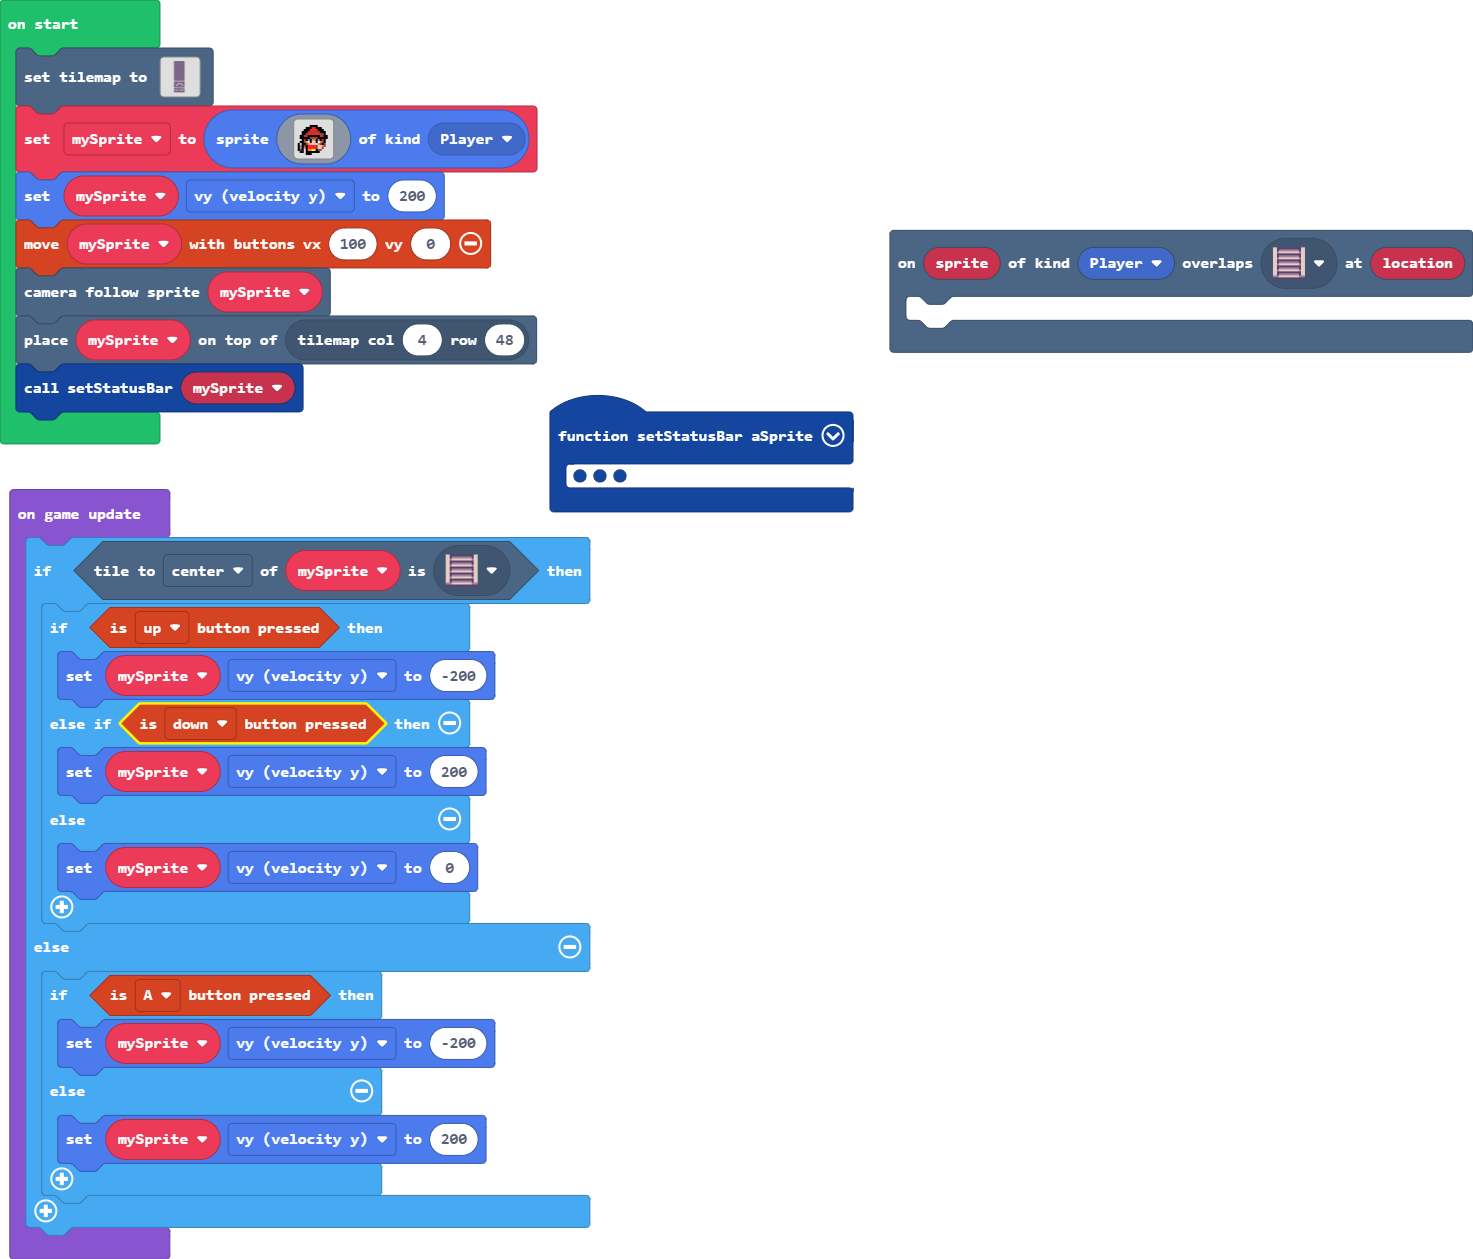
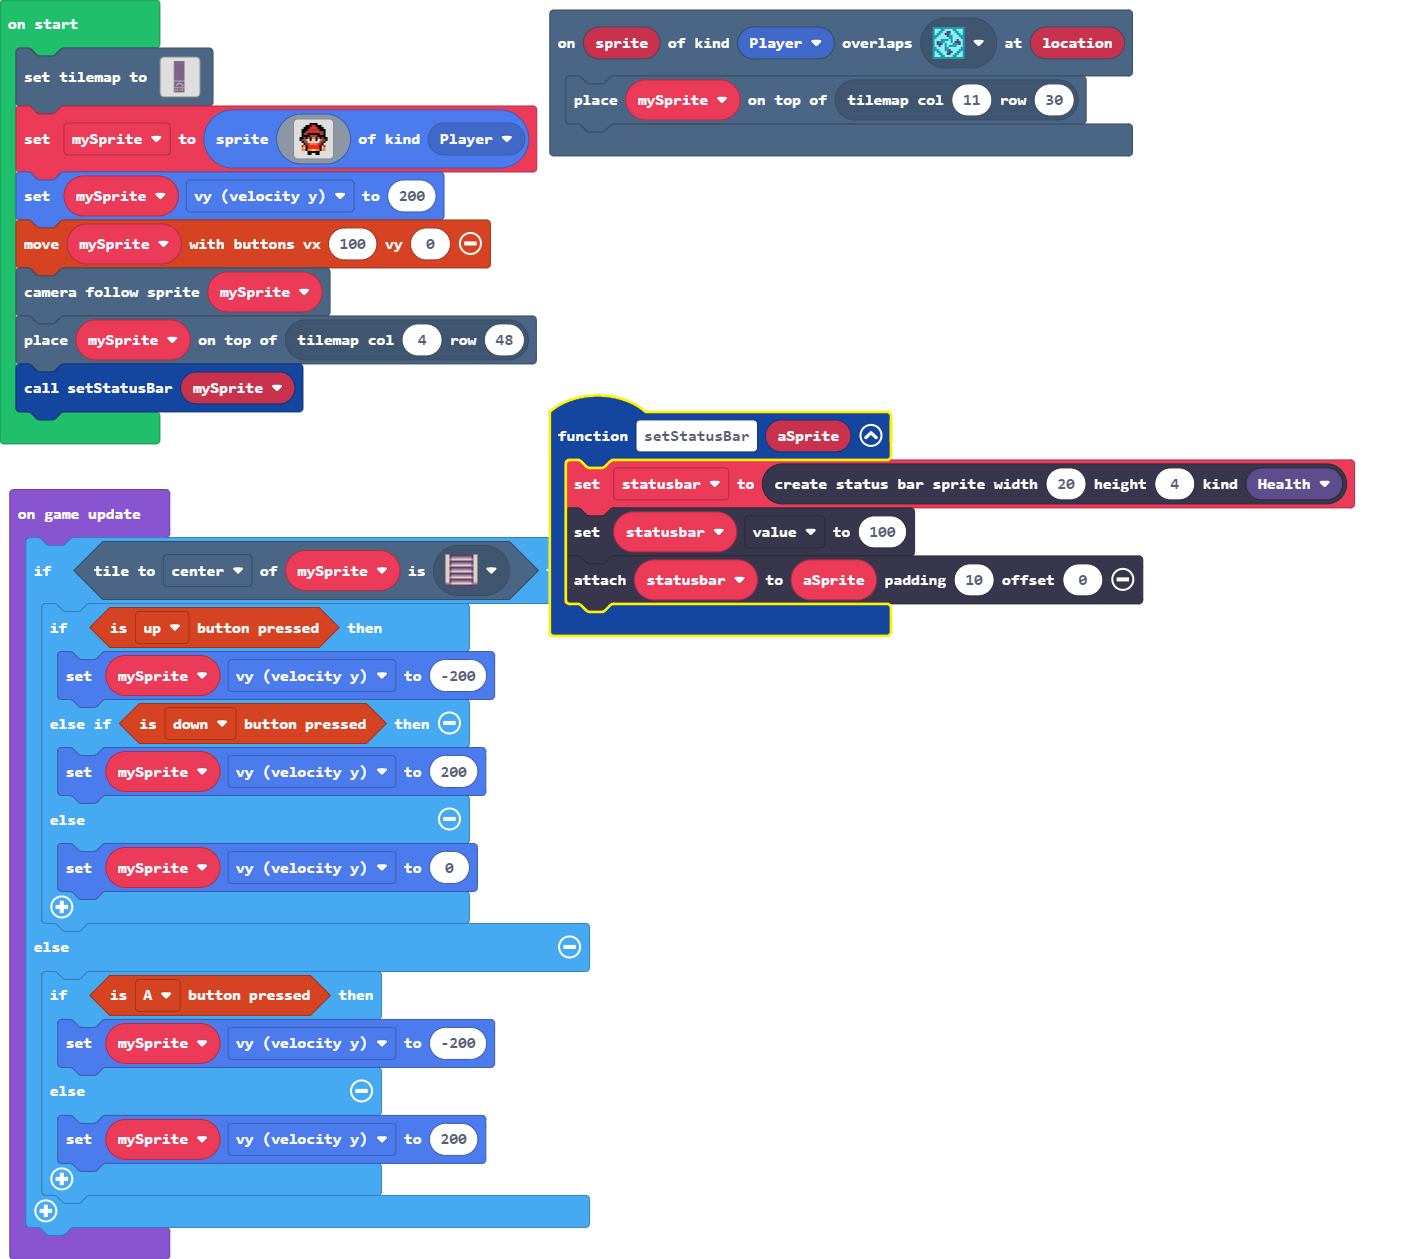
Update main.blocks, main.ts, images.g.jres, images.g.ts, tilemap.g.jres, tilemap.g.ts

diff --git a/tilemap.g.ts b/tilemap.g.ts
@@ -2,11 +2,13 @@
 namespace myTiles {
     //% fixedInstance jres blockIdentity=images._tile
     export const transparency16 = image.ofBuffer(hex``);
+    //% fixedInstance jres blockIdentity=images._tile
+    export const tile1 = image.ofBuffer(hex``);
 
     helpers._registerFactory("tilemap", function(name: string) {
         switch(helpers.stringTrim(name)) {
             case "level1":
-            case "level1":return tiles.createTilemap(hex`100032000101010101010101010101010101010101010101010101010101010101010101010101010101010101010101010101010101010101010101010101010101010101010101010101010101010101010101010101010101010101010101010101010101010101010101010101010101010101010101010101010101010101010101010101010101010101010101010101010101010101010101010101010101010101010101010101010101010101010101010101010101010101010101010101010101010101010101010101010101010101010101010101010101010101010101010101010101010101010101010101010101010101010101010101010101010101010101010101010101010101010101010101010101010101010101010101010101010101010101010101010101010101010101010101010101010101010101010101010101010101010101010101010101010101010101010101010101010101010101010101010101010101010101010101010101010101010101010101010101010101010101010101010101010101010101010101010101010101010101010101010101010101010101010101010101010101010101010101010101010101010101010101010101010101010101010101010101010101010101010101010101010101010101010101010101010102020202020202020302020202020202010101010101010103010101010101010101010101010101030101010101010101010101010101010301010101010101010101010101020202020202010101010101010101020201010101020201010101010101020201010101010102020101010101020201010101010101010202010101010101010101010101010101010101010101010101010101010101010101020202020202020202020202020302020101010101010101010101010103010101010101010101010101010101030101010101010101010101010101010301010102020202020201010202020202020101010101010101010101010101010101010101010101010101010101010101010101010101010101010101010101010102020202020202020202020202020202`, img`
+            case "level1":return tiles.createTilemap(hex`100032000101010101010101010101010101010101010101010101010101010101010101010101010101010101010101010101010101010101010101010101010101010101010101010101010101010101010101010101010101010101010101010101010101010101010101010101010101010101010101010101010101010101010101010101010101010101010101010101010101010101010101010101010101010101010101010101010101010101010101010101010101010101010101010101010101010101010101010101010101010101010101010101010101010101010101010101010101010101010101010101010101010101010101010101010101010101010101010101010101010101010101010101010101010101010101010101010101010101010101010101010101010101010101010101010101010101010101010101010101010101010101010101010101010101010101010101010101010101010101010101010101010101010101010101010101010101010101010101010101010101010101010101010101010101010101010101010101010101010101010101010101010101010101010101010101010101010101010101010101010101010101010101010101010101010101010101010101010101010101010101010101010101010101030101050101010102020202020202020302020202020202010101010101010103010101010101010101010101010101030101010101010101010101010101010301010101010101010101010101020202020202010101010101010101020201010101020201010101010101020201010101010102020401010101020201010101010101010202010101010101010101010101010101010101010101010101010101010101030101020202020202020202020202020302020101010101010101010101010103010101010101010101010101010101030101010101040101010101010101010301010102020202020201010202020202020101010101010101010101010101010101010101010101010101010101010101010101010101010101010101010101010102020202020202020202020202020202`, img`
 ................
 ................
 ................
@@ -57,7 +59,7 @@ namespace myTiles {
 ................
 ................
 2222222222222222
-`, [myTiles.transparency16,sprites.dungeon.darkGroundCenter,sprites.dungeon.floorLight0,sprites.dungeon.stairNorth], TileScale.Sixteen);
+`, [myTiles.transparency16,sprites.dungeon.darkGroundCenter,sprites.dungeon.floorLight0,sprites.dungeon.stairNorth,sprites.dungeon.collectibleInsignia,myTiles.tile1], TileScale.Sixteen);
         }
         return null;
     })
@@ -65,6 +67,8 @@ namespace myTiles {
     helpers._registerFactory("tile", function(name: string) {
         switch(helpers.stringTrim(name)) {
             case "transparency16":return transparency16;
+            case "myTile":
+            case "tile1":return tile1;
         }
         return null;
     })

diff --git a/main.ts b/main.ts
@@ -1,30 +1,31 @@
-scene.onOverlapTile(SpriteKind.Player, sprites.dungeon.stairNorth, function (sprite, location) {
-	
-})
 function setStatusBar (aSprite: Sprite) {
     statusbar = statusbars.create(20, 4, StatusBarKind.Health)
     statusbar.value = 100
     statusbar.attachToSprite(aSprite, 10, 0)
 }
+scene.onOverlapTile(SpriteKind.Player, sprites.dungeon.collectibleInsignia, function (sprite, location) {
+    tiles.placeOnTile(mySprite, tiles.getTileLocation(11, 30))
+})
 let statusbar: StatusBarSprite = null
+let mySprite: Sprite = null
 tiles.setTilemap(tilemap`level1`)
-let mySprite = sprites.create(img`
-    . . . . . . . . . . . . . . . . 
+mySprite = sprites.create(img`
     . . . . . . f f f f . . . . . . 
     . . . . f f f 2 2 f f f . . . . 
     . . . f f f 2 2 2 2 f f f . . . 
     . . f f f e e e e e e f f f . . 
     . . f f e 2 2 2 2 2 2 e e f . . 
-    . f f e 2 f f f f f f 2 e f f . 
-    . f f f f f e e e e f f f f f . 
-    . . f e f b f 4 4 f b f e f . . 
-    . f f e 4 1 f d d f 1 4 e f . . 
-    f d f f e 4 d d d d 4 e f e . . 
-    f b f e f 2 2 2 2 e d d 4 e . . 
-    f b f 4 f 2 2 2 2 e d d e . . . 
-    f c f . f 4 4 5 5 f e e . . . . 
-    . f f . f f f f f f f . . . . . 
-    . . . . f f f . . . . . . . . . 
+    . . f e 2 f f f f f f 2 e f . . 
+    . . f f f f e e e e f f f f . . 
+    . f f e f b f 4 4 f b f e f f . 
+    . f e e 4 1 f d d f 1 4 e e f . 
+    . . f e e d d d d d d e e f . . 
+    . . . f e e 4 4 4 4 e e f . . . 
+    . . e 4 f 2 2 2 2 2 2 f 4 e . . 
+    . . 4 d f 2 2 2 2 2 2 f d 4 . . 
+    . . 4 4 f 4 4 5 5 4 4 f 4 4 . . 
+    . . . . . f f f f f f . . . . . 
+    . . . . . f f . . f f . . . . . 
     `, SpriteKind.Player)
 mySprite.vy = 200
 controller.moveSprite(mySprite, 100, 0)

diff --git a/images.g.ts b/images.g.ts
@@ -22,22 +22,22 @@ f c f . f 4 4 5 5 f e e . . . .
 . . . . f f f . . . . . . . . . 
 `;
             case "image2":return img`
-. . . . . . . . . . . . . . . . 
 . . . . . . f f f f . . . . . . 
 . . . . f f f 2 2 f f f . . . . 
 . . . f f f 2 2 2 2 f f f . . . 
 . . f f f e e e e e e f f f . . 
 . . f f e 2 2 2 2 2 2 e e f . . 
-. f f e 2 f f f f f f 2 e f f . 
-. f f f f f e e e e f f f f f . 
-. . f e f b f 4 4 f b f e f . . 
-. f f e 4 1 f d d f 1 4 e f . . 
-f d f f e 4 d d d d 4 e f e . . 
-f b f e f 2 2 2 2 e d d 4 e . . 
-f b f 4 f 2 2 2 2 e d d e . . . 
-f c f . f 4 4 5 5 f e e . . . . 
-. f f . f f f f f f f . . . . . 
-. . . . f f f . . . . . . . . . 
+. . f e 2 f f f f f f 2 e f . . 
+. . f f f f e e e e f f f f . . 
+. f f e f b f 4 4 f b f e f f . 
+. f e e 4 1 f d d f 1 4 e e f . 
+. . f e e d d d d d d e e f . . 
+. . . f e e 4 4 4 4 e e f . . . 
+. . e 4 f 2 2 2 2 2 2 f 4 e . . 
+. . 4 d f 2 2 2 2 2 2 f d 4 . . 
+. . 4 4 f 4 4 5 5 4 4 f 4 4 . . 
+. . . . . f f f f f f . . . . . 
+. . . . . f f . . f f . . . . . 
 `;
         }
         return null;
